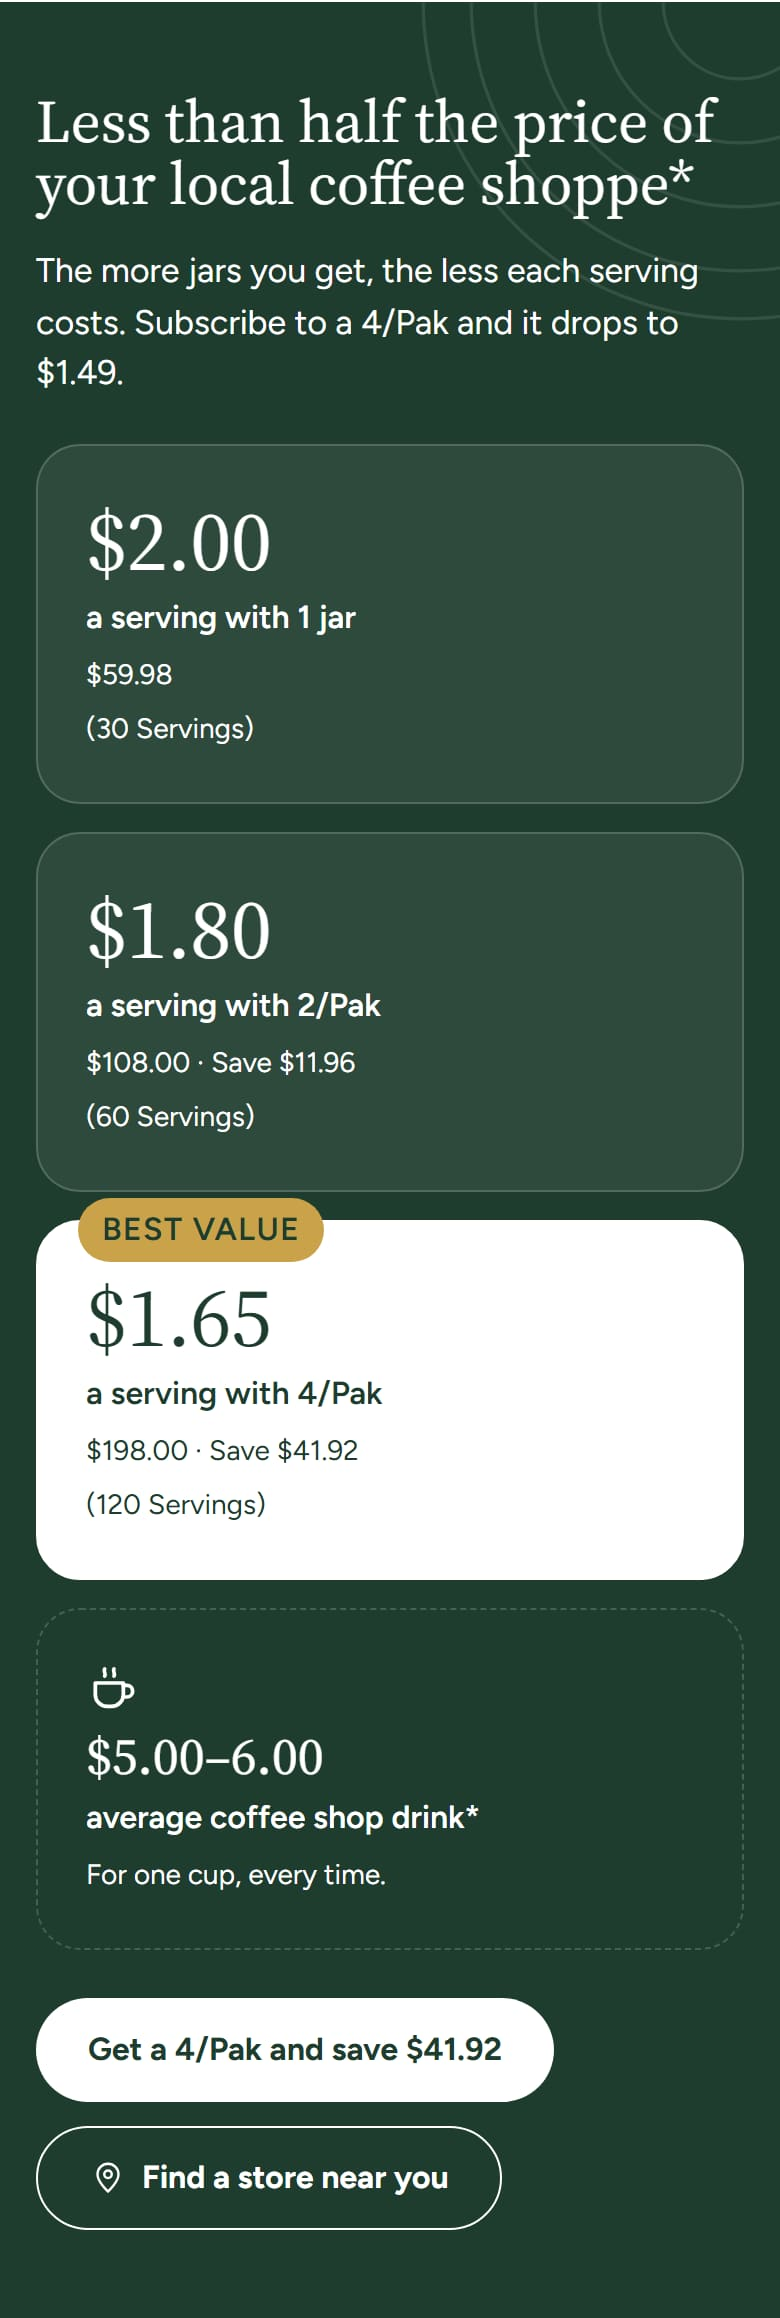
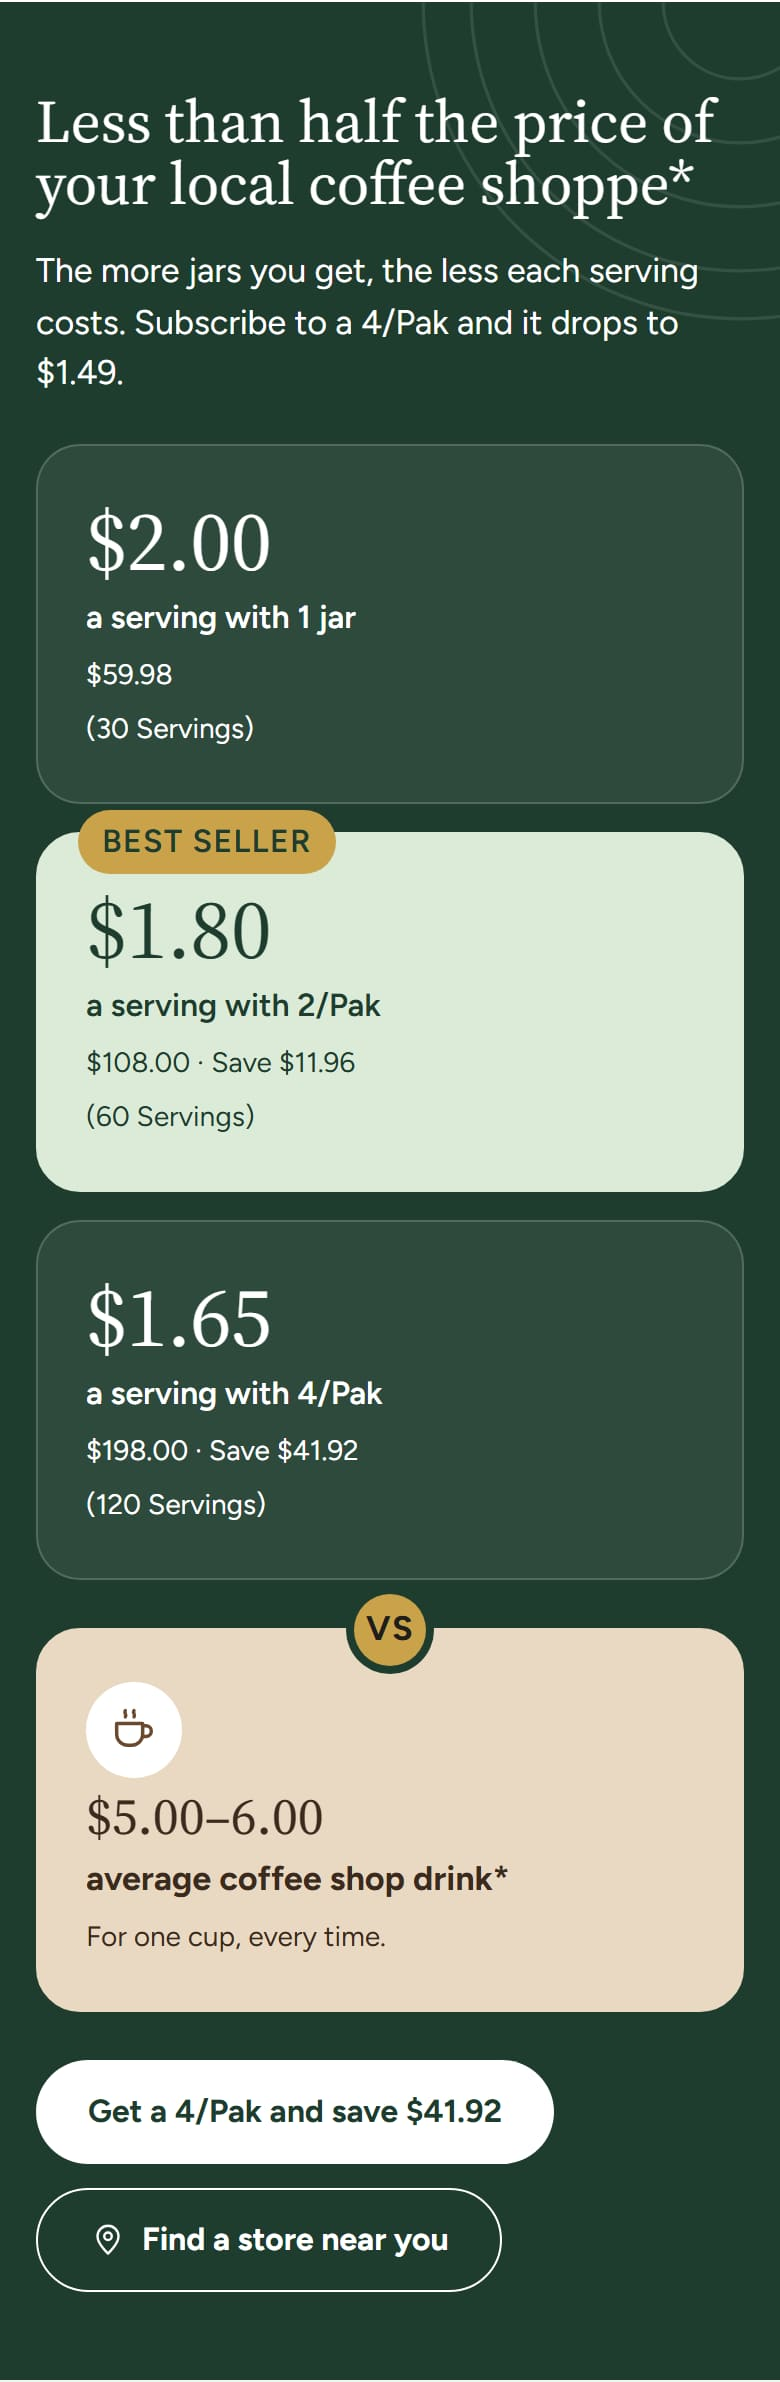
review: VidaRich site shots retaken after Rich's changes (vidarich-site)
- Home price: 2/Pak Best seller (light green), coffee shop tile solid latte + vs badge
- Order page: headline price follows the picked pack; reviews sorted highest rating first
- Store finder: growing fast line under the state buttons

diff --git a/src/content/reviews/vidarich-site.ts b/src/content/reviews/vidarich-site.ts
@@ -51,7 +51,7 @@ export const vidarichSite: ReviewContent = {
           ['Collagen Peptides', 673, 1306],
           ['The 5 superfoods', 954, 2780],
           ['Your Drink vs Your Drink + VidaRich', 1346, 4010],
-          ['Price per serving', 659, 2318],
+          ['Price per serving', 660, 2382],
           ['How to mix', 694, 1700],
           ['Reviews', 586, 1912],
           ['Try it where you shop', 754, 2268],
@@ -62,7 +62,7 @@ export const vidarichSite: ReviewContent = {
           ['Photo and buy box', 1357, 3746],
           ['Supplement Facts', 1043, 4196],
           ['How to mix', 385, 956],
-          ['Reviews', 2072, 5176],
+          ['Reviews', 2072, 5222],
           ['Questions and answers', 865, 1560],
           ['10% sign-up band and footer', 721, 2632],
         ]),
@@ -80,7 +80,7 @@ export const vidarichSite: ReviewContent = {
           ['This Sh!t Works: subscribe or try one jar', 348, 848],
         ]),
         page('storefinder', 'Store finder', 'F', '/a/store-locator/list', [
-          ['Top and state buttons', 400, 776],
+          ['Top and state buttons', 464, 904],
           ['Store list and map', 974, 1824],
           ['10% sign-up band and footer', 721, 2630],
         ]),
